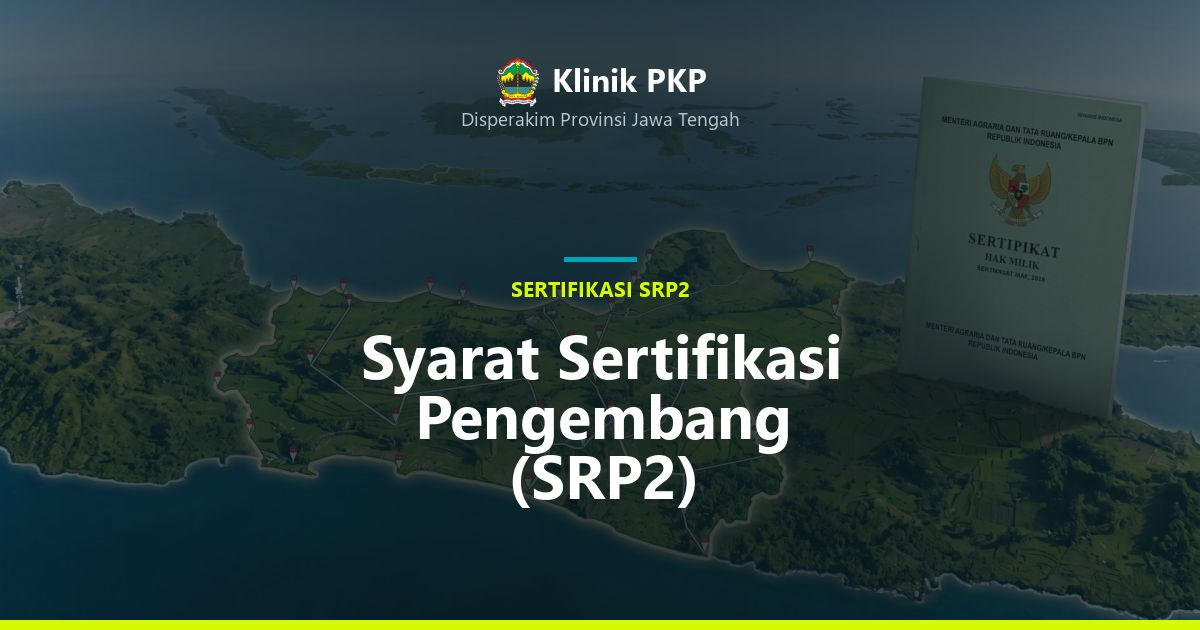
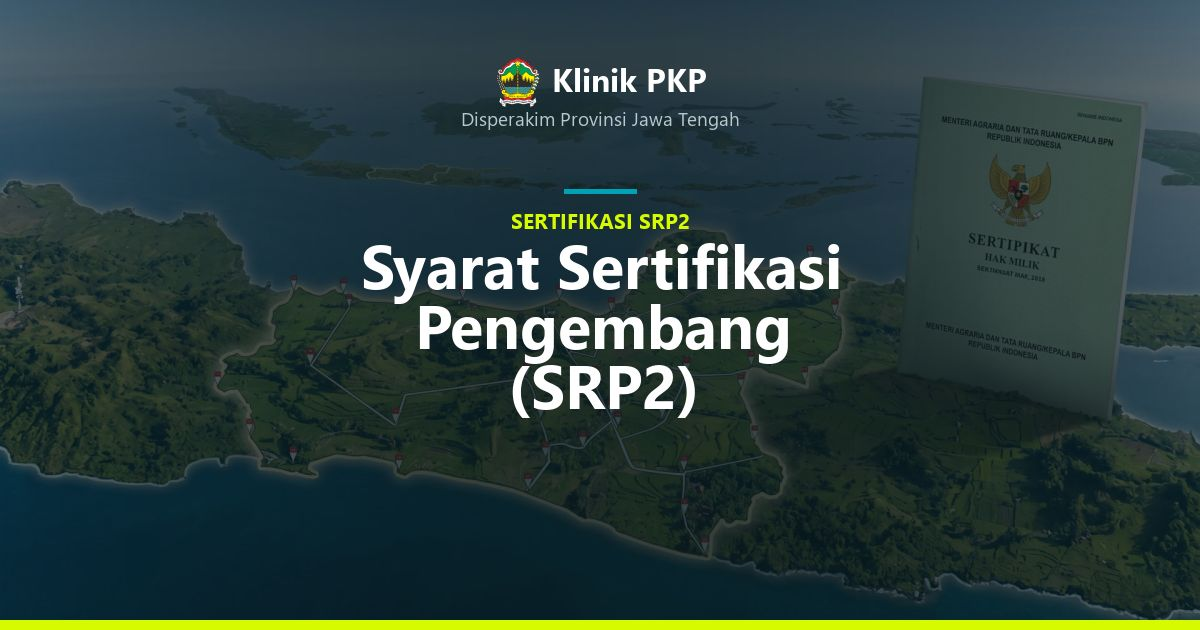
fix(seo): judul kartu Open Graph di tengah kartu
Blok judul dulu dipusatkan pada ruang di bawah logo, sehingga turun ke
sepertiga bawah kartu (umpan balik user dari pratinjau Telegram). Kini
judul dipusatkan pada tengah kartu (y 345, garis tengah tinta sekitar
327 untuk judul dua maupun tiga baris); label dan garis aksen di atasnya.
Rata tengah mendatar sudah tepat (selisih 1 sampai 3 piksel). 30 kartu
dibuat ulang.

Changed region(s): [[0.2775, 0.3016, 0.7092, 0.8143]]

diff --git a/docs/engineering/buat_kartu_og.php b/docs/engineering/buat_kartu_og.php
@@ -151,11 +151,13 @@ foreach ($kartu as $slug => [$label, $judul, $deskripsi, $foto]) {
     $ukuran = 46; $baris_judul = baris($judul, $GLOBALS['FONT_TEBAL'], $ukuran, ZONA, 4);
     if (count($baris_judul) > 3) { $ukuran = 40; $baris_judul = baris($judul, $GLOBALS['FONT_TEBAL'], $ukuran, ZONA, 4); }
     $tinggi_baris = (int) ($ukuran * 1.32);
-    $tinggi_blok = 40 + count($baris_judul) * $tinggi_baris;
-    $y = (int) (150 + (TINGGI - 10 - 150 - $tinggi_blok) / 2) + 22;
-    imagefilledrectangle($im, (int) (LEBAR / 2 - 36), $y - 40, (int) (LEBAR / 2 + 36), $y - 36, warna($im, '#00a3b5'));
-    tengah($im, 16, $GLOBALS['FONT_TEBAL'], mb_strtoupper($label), $y, warna($im, '#d6fb00'));
-    $y += 22 + $tinggi_baris;
+    // Blok judul dipusatkan pada tengah kartu (sedikit di bawahnya karena logo di atas), BUKAN pada ruang
+    // di bawah logo: cara lama menurunkan judul ke sepertiga bawah (umpan balik user 7 Okt 2026).
+    $pusat = 345;
+    $y = (int) ($pusat - count($baris_judul) * $tinggi_baris / 2 + $ukuran * 0.75); // garis dasar baris pertama
+    $y_label = $y - (int) ($ukuran * 0.75) - 26;
+    imagefilledrectangle($im, (int) (LEBAR / 2 - 36), $y_label - 40, (int) (LEBAR / 2 + 36), $y_label - 36, warna($im, '#00a3b5'));
+    tengah($im, 16, $GLOBALS['FONT_TEBAL'], mb_strtoupper($label), $y_label, warna($im, '#d6fb00'));
     foreach ($baris_judul as $b) { tengah($im, $ukuran, $GLOBALS['FONT_TEBAL'], $b, $y, warna($im, '#ffffff')); $y += $tinggi_baris; }
 
     imagejpeg($im, $KELUAR . $slug . '.jpg', 80);
